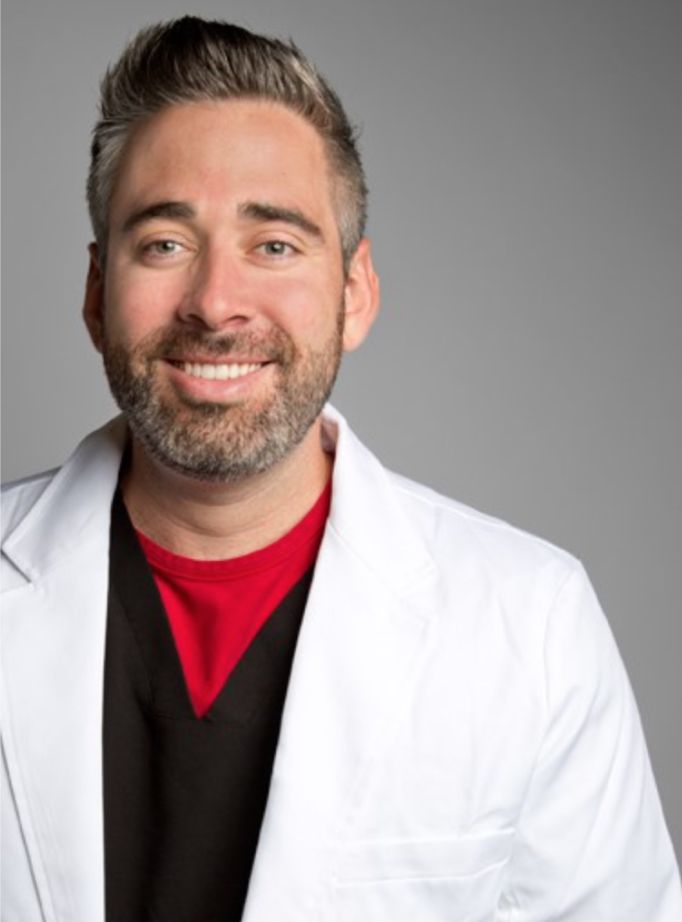
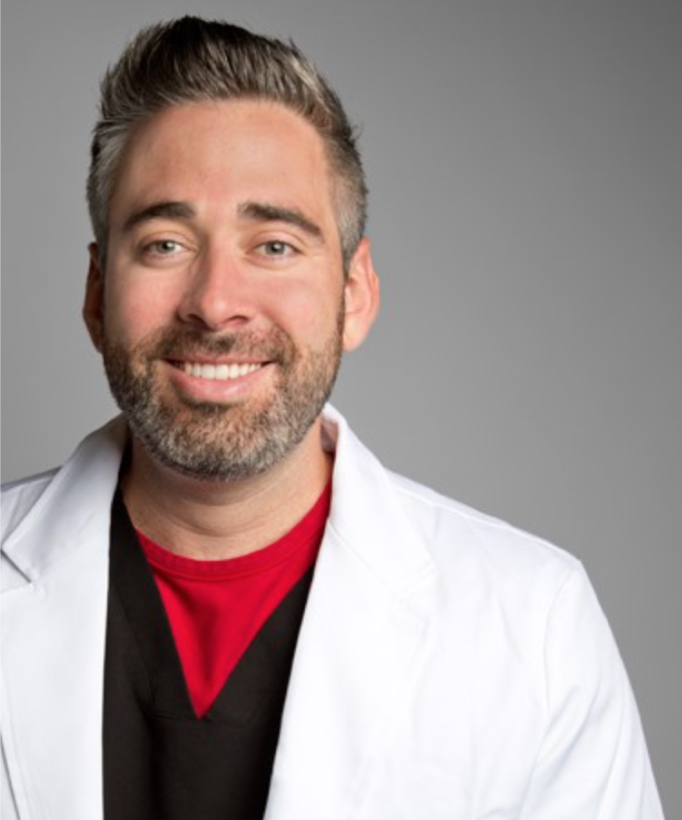
more tweaks

diff --git a/components/NavBar.tsx b/components/NavBar.tsx
@@ -2,7 +2,6 @@ import { BsFillPeopleFill, BsFillTelephoneFill } from 'react-icons/bs';
 import React, { useEffect, useRef, useState } from 'react';
 import { motion, useCycle } from 'framer-motion';
 
-import { AiTwotoneHome } from 'react-icons/ai';
 import { FaHospital } from 'react-icons/fa';
 import { Logo } from './Logo';
 import { MdBiotech } from 'react-icons/md';
@@ -218,12 +217,12 @@ export const NavBar: React.FC<Props> = () => {
       <NavbarInnerContainer>
         <MobileSpacer />
         <NavbarLinksContainer className='left'>
-          <NavbarLink>
+          {/* <NavbarLink>
             <NoScrollLink href='/' passHref>
               <AiTwotoneHome />
               <p>Home</p>
             </NoScrollLink>
-          </NavbarLink>
+          </NavbarLink> */}
           <NavbarLink>
             <NoScrollLink href='/culture' passHref>
               <MdBiotech />
@@ -243,7 +242,9 @@ export const NavBar: React.FC<Props> = () => {
             </NoScrollLink>
           </NavbarLink>
         </NavbarLinksContainer>
-        <Logo />
+        <NoScrollLink href='/'>
+          <Logo />
+        </NoScrollLink>
         <NavbarLinksContainer className='right'>
           <NavbarLink>
             <NoScrollLink href='/our-people' passHref>

diff --git a/components/MeetStaffSlider.tsx b/components/MeetStaffSlider.tsx
@@ -71,7 +71,7 @@ const StaffPicture = styled('div')`
   position: relative;
   flex-shrink: 0;
   margin-right: 30px;
-  aspect-ratio: 0.7396;
+  aspect-ratio: 682 / 820;
   img {
     border-radius: var(--border-radius);
     object-fit: contain;
@@ -229,7 +229,7 @@ const staffMembers = [
         </p>
       </>
     ),
-    imgSrc: '/images/KMHeadshot.jpg',
+    imgSrc: '/images/clara.jpg',
   },
 ];
 

diff --git a/pages/services.tsx b/pages/services.tsx
@@ -53,9 +53,9 @@ export default function Services() {
           </p>
           <Button
             buttonStyle='grey'
-            href={PET_PORTAL_LINK}
-            target='_blank'
-            rel='noopener noreferrer'
+            href={'/contact'}
+            // target='_blank'
+            // rel='noopener noreferrer'
           >
             Book Now
           </Button>
